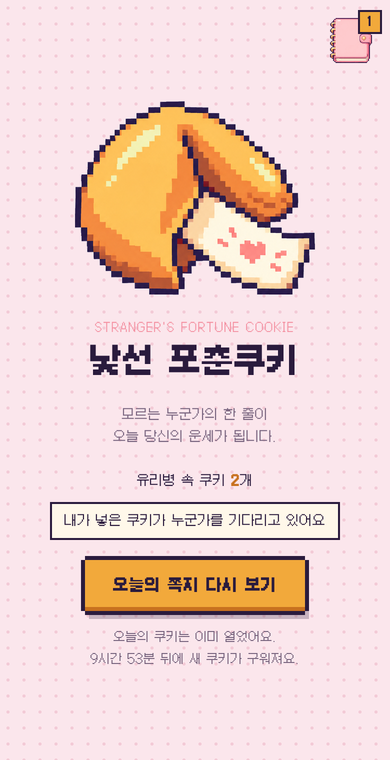
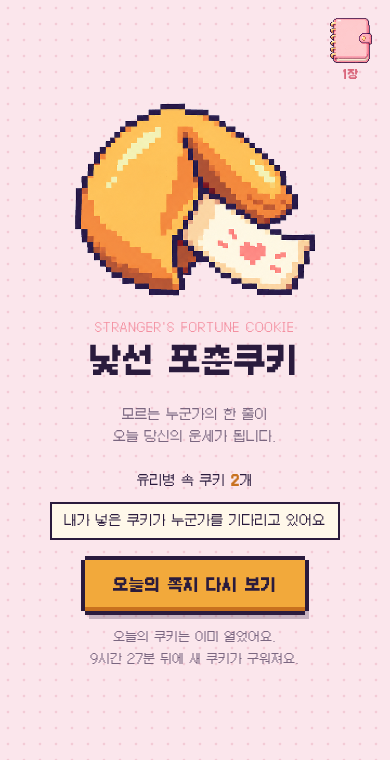
수첩 아이콘 배지를 아이콘 아래 'N장' 표시로 변경
Claude-Session: https://claude.ai/code/session_019H48sgWEPCeJ89SP3p48pL

diff --git a/index.html b/index.html
@@ -125,8 +125,7 @@ body:not([data-screen]) .book-fab,body[data-screen="0"] .book-fab{display:grid}
 .book-ico img{width:100%;height:100%;image-rendering:pixelated;display:block}
 @media (hover:hover){.book-fab:hover .book-ico img{transform:translateY(-2px)}}
 .book-fab:focus-visible{outline:3px dashed var(--pink);outline-offset:4px}
-.badge{position:absolute;top:-6px;right:-8px;min-width:20px;height:20px;padding:0 5px;display:grid;place-items:center;
-  background:var(--dough);color:var(--ink);font-size:11px;font-weight:700;box-shadow:0 0 0 2px var(--ink)}
+.badge{display:block;margin-top:2px;text-align:center;color:#D9677C;font-size:11px;font-weight:700;line-height:1}
 
 .book-wrap{width:100%;display:grid;gap:16px;justify-items:center}
 .book-sub{font-size:12px;color:var(--muted);margin:0;word-break:keep-all;line-height:1.8}
@@ -207,7 +206,7 @@ body:not([data-screen]) .book-fab,body[data-screen="0"] .book-fab{display:grid}
   <img src="assets/icon-heart.png" alt="" style="right:8%;bottom:7%;--s:26px;--d:1.5s">
 </div>
 <button class="book-fab" id="openBook" aria-label="낯선 쪽지 모음 열기">
-  <span class="book-ico"><img src="assets/book-icon.png" alt=""><b class="badge" id="bookCount">0</b></span>
+  <span class="book-ico"><img src="assets/book-icon.png" alt=""></span><b class="badge" id="bookCount" hidden>0</b>
 </button>
 <main class="app">
   <!-- 0. 시작 -->
@@ -435,7 +434,7 @@ body:not([data-screen]) .book-fab,body[data-screen="0"] .book-fab{display:grid}
   const rowsNow=()=>book.items.length? [...book.items].sort((a,b)=>a.t-b.t) : (showSample? [...SAMPLES].reverse() : []);
   function renderBook(){
     const n=book.items.length;
-    $('bookCount').textContent=n; $('bookCount').hidden=!n;
+    $('bookCount').textContent=n+'장'; $('bookCount').hidden=!n;
     $('coverCount').innerHTML = n ? '모은 쪽지 <b>'+n+'</b>장' : '';
     $('coverSub').innerHTML = n ? '모르는 사람들에게 받은 한 줄이<br>하루에 한 장씩 쌓여요.' : '아직 받은 쪽지가 없어요.<br>오늘의 쿠키를 깨면 첫 장이 채워져요.';
     $('openPages').hidden=!n; $('toggleSample').hidden=!!n;

diff --git a/README.md b/README.md
@@ -74,7 +74,7 @@
 
 | 기능 | 설명 |
 |---|---|
-| **낯선 쪽지 모음** | 내가 연 쪽지가 하루에 한 장씩 수첩에 쌓여요. 시작 화면 오른쪽 위 수첩 아이콘(모은 장수 배지)을 누르면 표지가 나오고, 펼쳐서 한 장씩 넘겨 볼 수 있어요. 서버에 방문자별로 저장돼요. |
+| **낯선 쪽지 모음** | 내가 연 쪽지가 하루에 한 장씩 수첩에 쌓여요. 시작 화면 오른쪽 위 수첩 아이콘(아래에 모은 장수 표시)을 누르면 표지가 나오고, 펼쳐서 한 장씩 넘겨 볼 수 있어요. 서버에 방문자별로 저장돼요. |
 | **쪽지 정보** | 받은 한 줄과 함께 행운의 숫자 6개(1~45, 깰 때마다 새로 뽑음)와 쿠키 번호(No.001)가 찍혀요. |
 
 ### 연출
@@ -231,7 +231,7 @@ fortune-cookie/
 ### 2026.10.18 · 낯선 쪽지 모음
 
 - **낯선 쪽지 모음**: 내가 연 쪽지를 하루에 한 장씩 모아 두는 수첩이 생겼습니다.
-- **시작 화면 아이콘**: 오른쪽 위 분홍 수첩 아이콘에 모은 장수가 배지로 표시됩니다.
+- **시작 화면 아이콘**: 오른쪽 위 분홍 수첩 아이콘 아래에 모은 장수(예: `3장`)가 작게 표시됩니다.
 - **표지와 펼친 수첩**: 아이콘을 누르면 수첩 표지가 나오고, 펼치면 줄 노트 종이에 날짜, 쪽지 번호, 받은 한 줄, 그날의 행운의 숫자가 적혀 있습니다. ◀ ▶ 버튼, 좌우로 밀기, 키보드 화살표로 한 장씩 넘길 수 있습니다.
 - **서버 저장**: 쪽지 모음은 서버에 방문자별로 저장되어 새로고침해도 사라지지 않습니다. (`#shared` 시연 모드에서는 저장하지 않음)
 - **시작 화면 정리**: 요소 사이 간격을 넓혀 덜 답답하게 바꿨습니다.
